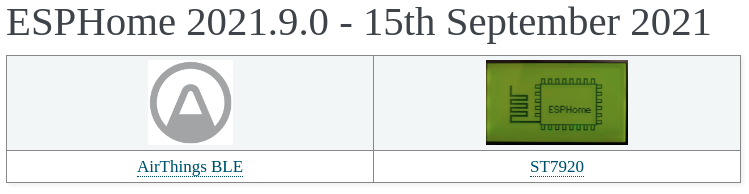
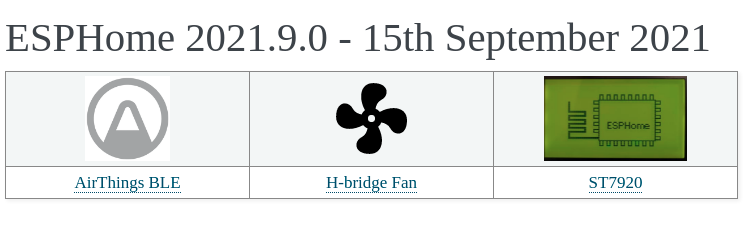
Update changelog for 2021.9.0

Changed region(s): [[0.0, 0.0309, 1.0, 0.9588]]

diff --git a/changelog/2021.9.0.rst b/changelog/2021.9.0.rst
@@ -8,12 +8,20 @@ ESPHome 2021.9.0 - 15th September 2021
     :author_twitter: @esphome_
 
 .. imgtable::
-    :columns: 2
+    :columns: 3
 
     AirThings BLE, components/sensor/airthings_ble, airthings_logo.png
+    H-bridge Fan, components/fan/hbridge, fan.svg
     ST7920, components/display/st7920, st7920.jpg
 
 
+`Home Assistant Amber <https://home-assistant.io/amber>`__
+----------------------------------------------------------
+
+You get the most out of your ESPHome devices when you combine it with Home Assistant,
+which offers a seamless and local integration to control and manage all your ESPHome devices.
+Today Home Assistant launched a crowdfunding campaign for the `Home Assistant Amber <https://home-assistant.io/amber>`__,
+the easiest way to get started with Home Assistant and a privacy focused smart home.
 
 API Encryption
 --------------
@@ -55,6 +63,7 @@ Full list of changes
 New Features
 ^^^^^^^^^^^^
 
+- Add H-Bridge fan component :esphomepr:`2212` by :ghuser:`WeekendWarrior1` (new-feature)
 - Allow using a git source for a package :esphomepr:`2193` by :ghuser:`jesserockz` (new-feature)
 
 New Components
@@ -77,10 +86,10 @@ Beta Fixes
 - Fix a few ESP32-C3 compiler issues :esphomepr:`2265` by :ghuser:`jesserockz`
 - sm300d2: Accept (undocumented) 0x80 checksum offset. :esphomepr:`2263` by :ghuser:`poptix`
 - Disable automatic usage of SNTP servers from DHCP :esphomepr:`2273` by :ghuser:`oxan`
-- Fix API socket issues :esphomepr:`2288` by :ghuser:`OttoWinter`
 - Only try compat parsing after regular parsing fails :esphomepr:`2269` by :ghuser:`oxan`
 - Suppress excessive warnings about deprecated Fan interfaces :esphomepr:`2270` by :ghuser:`oxan`
 - t6615: tolerate sensor dropping commands :esphomepr:`2255` by :ghuser:`jasstrong`
+- Fix API socket issues :esphomepr:`2288` by :ghuser:`OttoWinter`
 - Bump platformio to 5.2.0 :esphomepr:`2291` by :ghuser:`OttoWinter`
 - API Noise logging :esphomepr:`2298` by :ghuser:`OttoWinter`
 - Fix api noise explicit reject :esphomepr:`2297` by :ghuser:`OttoWinter`
@@ -116,7 +125,7 @@ All changes
 - Bump dashboard to 20210826.0 :esphomepr:`2211` by :ghuser:`jesserockz`
 - Remove footer validation for fujitsu_general :esphomepr:`2196` by :ghuser:`marciogranzotto`
 - Glmnet schema 202105 :esphomepr:`2220` by :ghuser:`glmnet`
-- Add H-Bridge fan component :esphomepr:`2212` by :ghuser:`WeekendWarrior1`
+- Add H-Bridge fan component :esphomepr:`2212` by :ghuser:`WeekendWarrior1` (new-feature)
 - Bump black from 21.7b0 to 21.8b0 :esphomepr:`2222` by :ghuser:`dependabot[bot]`
 - Bump pytest from 6.2.4 to 6.2.5 :esphomepr:`2223` by :ghuser:`dependabot[bot]`
 - Support for the AirThings Wave Plus :esphomepr:`1656` by :ghuser:`jeromelaban` (new-integration)
@@ -160,10 +169,10 @@ All changes
 - Fix a few ESP32-C3 compiler issues :esphomepr:`2265` by :ghuser:`jesserockz`
 - sm300d2: Accept (undocumented) 0x80 checksum offset. :esphomepr:`2263` by :ghuser:`poptix`
 - Disable automatic usage of SNTP servers from DHCP :esphomepr:`2273` by :ghuser:`oxan`
-- Fix API socket issues :esphomepr:`2288` by :ghuser:`OttoWinter`
 - Only try compat parsing after regular parsing fails :esphomepr:`2269` by :ghuser:`oxan`
 - Suppress excessive warnings about deprecated Fan interfaces :esphomepr:`2270` by :ghuser:`oxan`
 - t6615: tolerate sensor dropping commands :esphomepr:`2255` by :ghuser:`jasstrong`
+- Fix API socket issues :esphomepr:`2288` by :ghuser:`OttoWinter`
 - Bump platformio to 5.2.0 :esphomepr:`2291` by :ghuser:`OttoWinter`
 - API Noise logging :esphomepr:`2298` by :ghuser:`OttoWinter`
 - Fix api noise explicit reject :esphomepr:`2297` by :ghuser:`OttoWinter`
